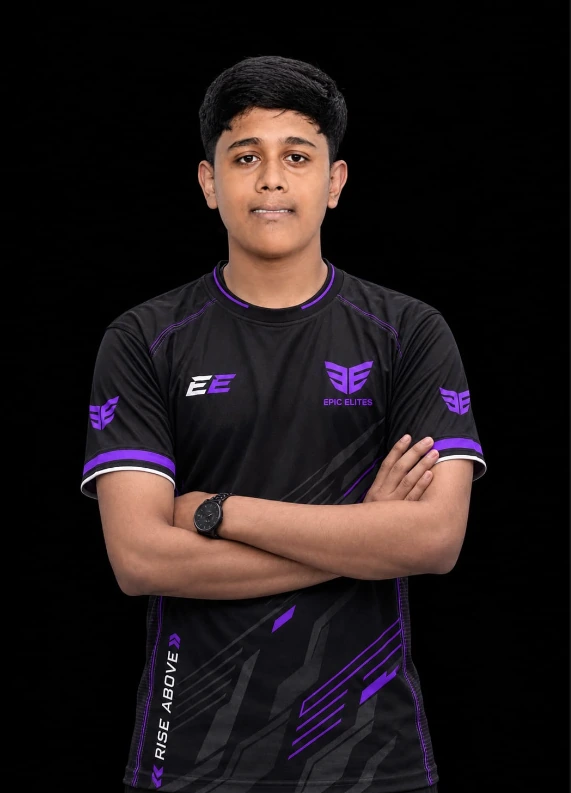
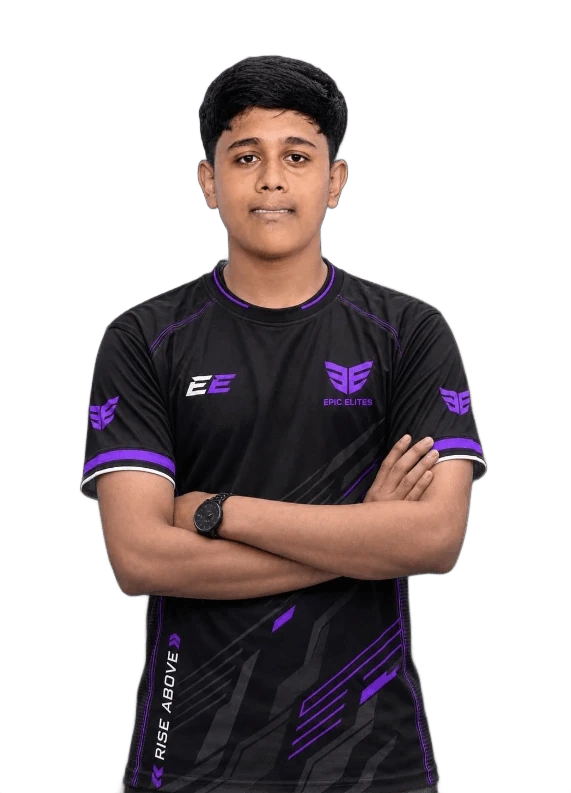
Transparent background for player 05, saved as PNG
player-05 was shot on black, so its card showed a black box. The background is
removed (player-05.png, with the old .webp name kept in step), team.json, the
seed and the setup-mode fallback use the real size of every portrait, and no
portrait is flagged as shot on black any more. The database test now reads the
expected player name from team.json.

diff --git a/lib/data/fallback.ts b/lib/data/fallback.ts
@@ -20,12 +20,12 @@ type LegacyTeam = {
 const team = raw as LegacyTeam;
 
 const sizes: Record<string, [number, number]> = {
-  "player-01.webp": [422, 591],
+  "player-01.webp": [1060, 1484],
   "player-02.webp": [447, 559],
-  "player-03.webp": [1060, 1484],
+  "player-03.webp": [422, 591],
   "player-04.webp": [422, 591],
-  "player-05.webp": [422, 591],
-  "player-06.webp": [571, 793],
+  "player-05.png": [571, 793],
+  "player-06.webp": [422, 591],
 };
 
 export const fallbackSettings: SiteSettings = {
@@ -41,10 +41,10 @@ export const fallbackSettings: SiteSettings = {
     .map(([network, url]) => ({ network, url })),
   logoUrl: "/images/epic-elites-mark.webp",
   faviconUrl: "/images/epic-elites-mark.webp",
-  ogImageUrl: "/images/team-kit.webp",
-  jerseyFrontUrl: "/images/jersey-front.webp",
-  jerseyBackUrl: "/images/jersey-back.webp",
-  kitImageUrl: "/images/team-kit.webp",
+  ogImageUrl: "/images/team-kit-v2.webp",
+  jerseyFrontUrl: "/images/jersey-front-v2.webp",
+  jerseyBackUrl: "/images/jersey-back-v2.webp",
+  kitImageUrl: "/images/team-kit-v2.webp",
   jerseyEditionLabel: null,
   heroSubtitle: "Six players in one black and violet kit, built to outlast every zone.",
   statement:
@@ -68,7 +68,7 @@ export const fallbackPlayers: Player[] = team.players.map((p) => {
     role: p.role,
     number: p.number,
     bio: p.bio,
-    image: { src: `/images/${p.image}`, width, height, onBlack: p.image === "player-06.webp" },
+    image: { src: `/images/${p.image}`, width, height, onBlack: false },
     region: null,
     socials: [],
     isFeatured: false,
@@ -84,8 +84,8 @@ export const fallbackMedia: MediaItem[] = [
     title: "Team kit",
     caption: "Team kit, front and back",
     alt_text: "Epic Elites jersey shown front and back on mannequins",
-    url: "/images/team-kit.webp",
-    width: 1422,
+    url: "/images/team-kit-v2.webp",
+    width: 1900,
     height: 1106,
     on_black: false,
     video_url: null,
